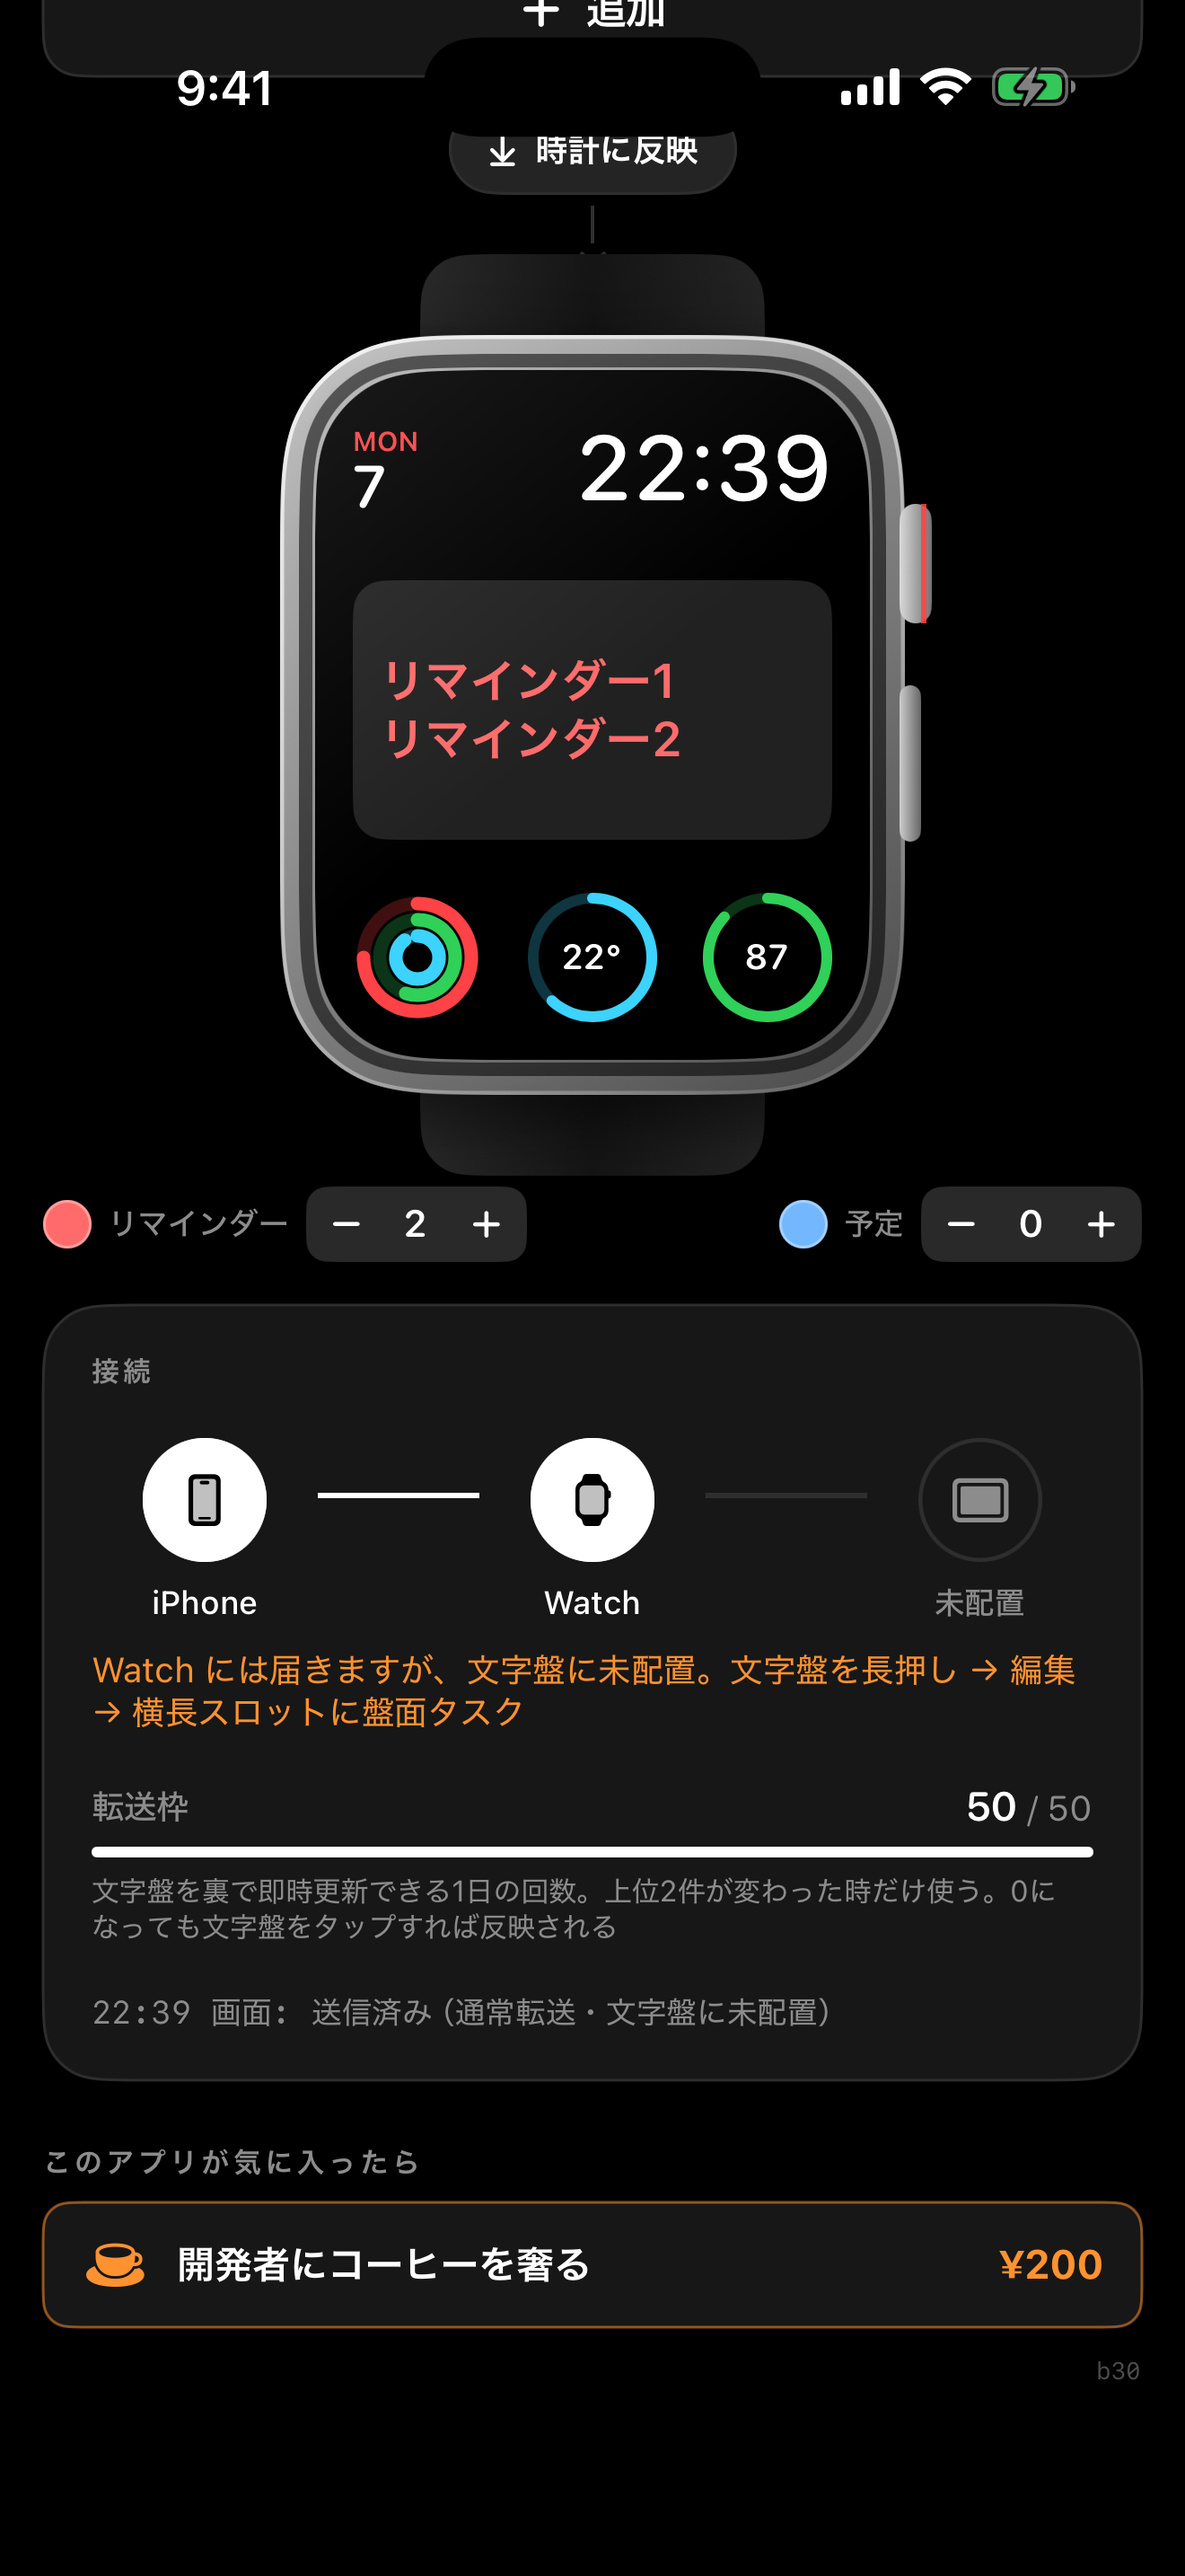
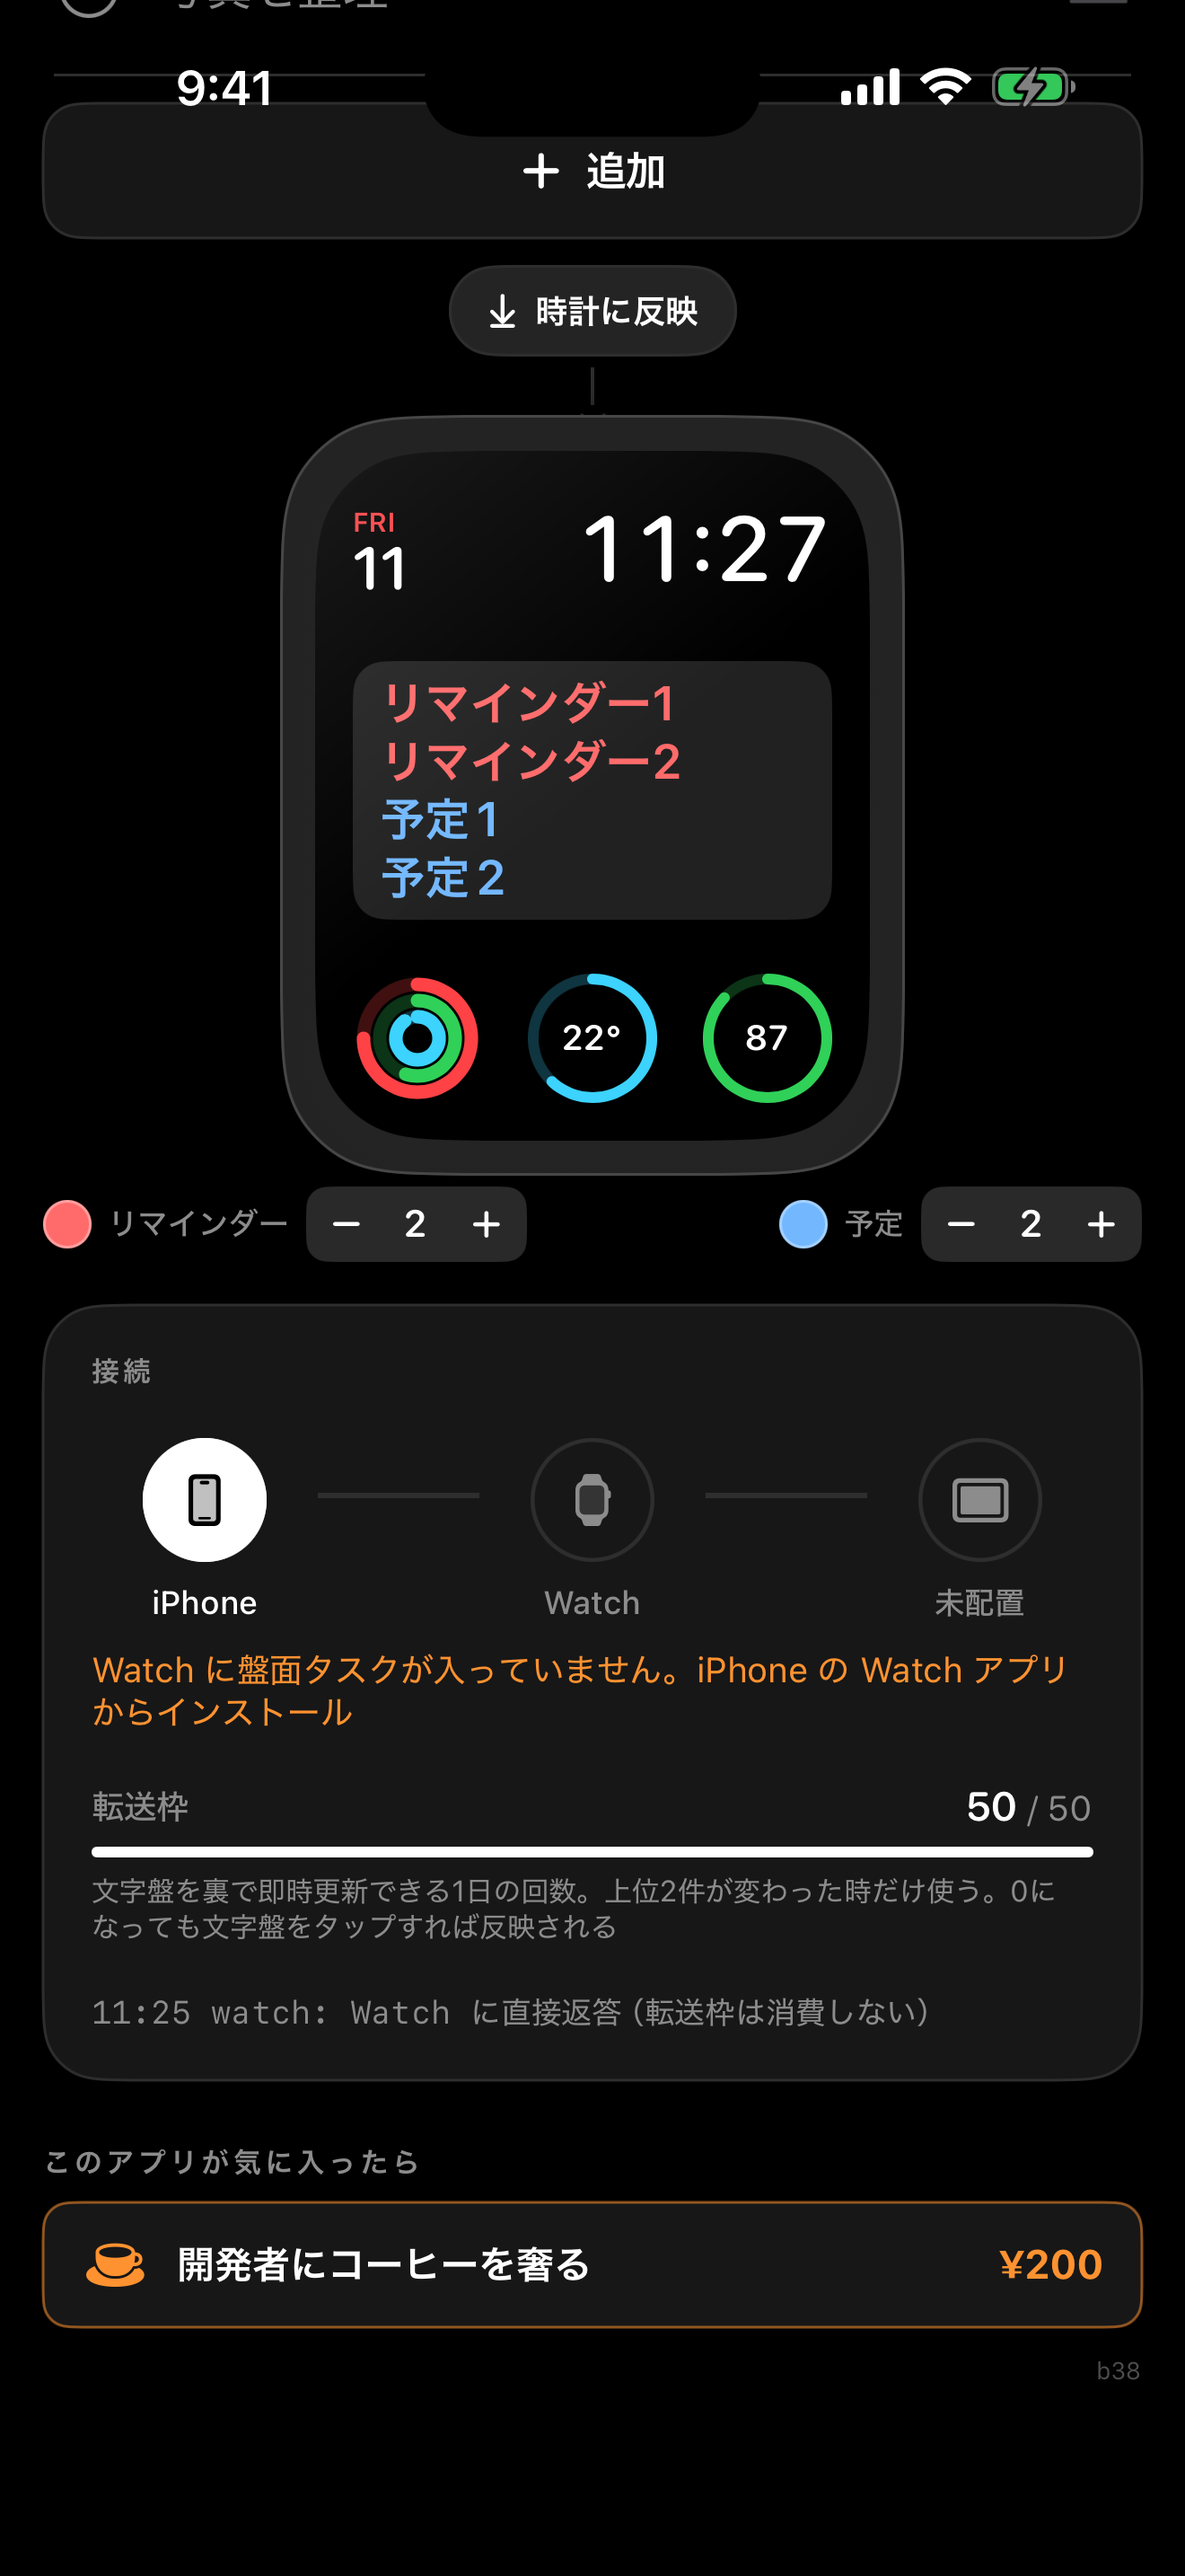
アイコンを作り直し、時計の絵をやめた (b38・1.0 (3))
5.2.5 却下への対応。「アイコンが Apple Watch に似ている」という指摘。

- アプリアイコンを、リストそのものを表す図柄に変更（上2件が赤＝文字盤に出るもの）。
  生成は tools/make-icon.swift。時計・バンド・竜頭・側面ボタンは描かない
- アプリ内の「時計ではこう見えます」も、バンド・竜頭・側面ボタン・金属ケースを外し、
  画面のまわりの黒い縁だけにした。掲載画像にも同じ絵が写っていたため
- スクリーンショットを5枚とも撮り直し

diff --git a/iOS/WatchMockView.swift b/iOS/WatchMockView.swift
@@ -1,9 +1,12 @@
 import SwiftUI
 
 /// 「時計ではこう見えます」のプレビュー。
-/// Apple Watch（ステンレスケース＋黒バンド）の中に、インフォグラフ モジュラー風の文字盤を描く。
 /// 中央の横長スロットが盤面タスク。周りの日付・時刻・下段3つは雰囲気用のダミー。
 /// 横長スロットの描画ルールは実際のウィジェットと同じ（2行同じフォント、長い方に合わせて一緒に縮む）。
+///
+/// **腕時計の実物を描かないこと。** バンド・竜頭・側面ボタン・金属ケースは描かない。
+/// 1.0 (2) はアイコンが Apple Watch に似ているとして 5.2.5 で却下された（引き継ぎ書 4-107）。
+/// ここは「画面のプレビュー」に留め、機種が分かる装飾は付けない。
 struct WatchMockView: View {
     let lines: [FaceLine]
     let layout: FaceLayout
@@ -15,57 +18,24 @@ struct WatchMockView: View {
 
     var body: some View {
         ZStack {
-            band
-            watchCase
-            crownAndButton
+            bezel
             screen
         }
-        .frame(width: caseW + 40, height: caseH + 60)
+        .frame(width: caseW, height: caseH)
     }
 
-    // MARK: - 筐体
+    // MARK: - 枠
 
-    private var band: some View {
-        RoundedRectangle(cornerRadius: 18, style: .continuous)
-            .fill(LinearGradient(colors: [Color(white: 0.16), Color(white: 0.08), Color(white: 0.14)],
-                                 startPoint: .leading, endPoint: .trailing))
-            .frame(width: 128, height: caseH + 60)
-    }
-
-    private var watchCase: some View {
-        RoundedRectangle(cornerRadius: 54, style: .continuous)
-            .fill(LinearGradient(colors: [Color(white: 0.82), Color(white: 0.55), Color(white: 0.30)],
-                                 startPoint: .topLeading, endPoint: .bottomTrailing))
+    /// 画面のまわりの黒い縁だけ。機種の分かる形にはしない
+    private var bezel: some View {
+        RoundedRectangle(cornerRadius: 46, style: .continuous)
+            .fill(Color(white: 0.14))
             .overlay(
-                RoundedRectangle(cornerRadius: 54, style: .continuous)
-                    .strokeBorder(LinearGradient(colors: [.white.opacity(0.9), .white.opacity(0.1)],
-                                                 startPoint: .topLeading, endPoint: .bottomTrailing),
-                                  lineWidth: 1.5)
-            )
-            .overlay(
-                // ベゼルとガラスの境目
                 RoundedRectangle(cornerRadius: 46, style: .continuous)
-                    .strokeBorder(Color.black.opacity(0.55), lineWidth: 5)
-                    .padding(7)
+                    .strokeBorder(Color(white: 0.28), lineWidth: 1)
             )
             .frame(width: caseW, height: caseH)
-            .shadow(color: .black.opacity(0.6), radius: 14, y: 8)
-    }
-
-    private var crownAndButton: some View {
-        ZStack {
-            Capsule()
-                .fill(LinearGradient(colors: [Color(white: 0.85), Color(white: 0.45)],
-                                     startPoint: .leading, endPoint: .trailing))
-                .frame(width: 12, height: 44)
-                .overlay(Rectangle().fill(.red.opacity(0.85)).frame(width: 2).offset(x: 3))
-                .offset(x: caseW / 2 + 4, y: -56)
-            Capsule()
-                .fill(LinearGradient(colors: [Color(white: 0.8), Color(white: 0.4)],
-                                     startPoint: .leading, endPoint: .trailing))
-                .frame(width: 8, height: 58)
-                .offset(x: caseW / 2 + 2, y: 18)
-        }
+            .shadow(color: .black.opacity(0.6), radius: 12, y: 6)
     }
 
     // MARK: - 画面

diff --git a/Tools/make-icon.swift b/Tools/make-icon.swift
@@ -1,0 +1,60 @@
+// アプリアイコンを描く。1024x1024 の PNG を作る。
+//   swift tools/make-icon.swift <出力先.png>
+//
+// **Apple の製品に似た絵を描かないこと。**
+// 1.0 (2) は「アイコンが Apple Watch に似ている」で 5.2.5 却下された（引き継ぎ書 4-107）。
+// 時計・バンド・竜頭・側面ボタンは描かない。リストそのものを記号にする。
+//
+// watchOS 側は円に切り抜かれるので、中身は中心から半径 410 の円に収める。
+import AppKit
+import ImageIO
+import UniformTypeIdentifiers
+
+let side = 1024
+let out = CommandLine.arguments.count > 1 ? CommandLine.arguments[1] : "icon.png"
+
+let space = CGColorSpaceCreateDeviceRGB()
+guard let ctx = CGContext(data: nil, width: side, height: side, bitsPerComponent: 8,
+                          bytesPerRow: 0, space: space,
+                          bitmapInfo: CGImageAlphaInfo.premultipliedLast.rawValue) else { exit(1) }
+
+/// 上からの y を CoreGraphics の y に直す
+func flip(_ y: CGFloat) -> CGFloat { CGFloat(side) - y }
+
+// 背景（上がわずかに明るい炭色）
+let bg = CGGradient(colorsSpace: space, colors: [
+    CGColor(red: 0.13, green: 0.13, blue: 0.14, alpha: 1),
+    CGColor(red: 0.02, green: 0.02, blue: 0.02, alpha: 1),
+] as CFArray, locations: [0, 1])!
+ctx.drawLinearGradient(bg, start: CGPoint(x: 0, y: CGFloat(side)), end: CGPoint(x: 0, y: 0), options: [])
+
+let red = CGColor(red: 1.0, green: 0.27, blue: 0.23, alpha: 1)
+let grey = CGColor(red: 0.56, green: 0.56, blue: 0.58, alpha: 1)
+
+/// ○ と棒を1行ぶん描く
+func row(y: CGFloat, barWidth: CGFloat, color: CGColor) {
+    let ringCenter = CGPoint(x: 262, y: flip(y))
+    let ringRadius: CGFloat = 38
+    ctx.setStrokeColor(color)
+    ctx.setLineWidth(13)
+    ctx.strokeEllipse(in: CGRect(x: ringCenter.x - ringRadius, y: ringCenter.y - ringRadius,
+                                 width: ringRadius * 2, height: ringRadius * 2))
+
+    let barHeight: CGFloat = 66
+    let bar = CGRect(x: 360, y: flip(y) - barHeight / 2, width: barWidth, height: barHeight)
+    ctx.setFillColor(color)
+    ctx.addPath(CGPath(roundedRect: bar, cornerWidth: barHeight / 2, cornerHeight: barHeight / 2, transform: nil))
+    ctx.fillPath()
+}
+
+// 上2件が文字盤に出るもの（赤）、3件目はまだ出ないもの（灰）
+row(y: 330, barWidth: 430, color: red)
+row(y: 512, barWidth: 366, color: red)
+row(y: 694, barWidth: 300, color: grey)
+
+guard let image = ctx.makeImage(),
+      let dest = CGImageDestinationCreateWithURL(URL(fileURLWithPath: out) as CFURL,
+                                                 UTType.png.identifier as CFString, 1, nil) else { exit(1) }
+CGImageDestinationAddImage(dest, image, nil)
+CGImageDestinationFinalize(dest)
+print("wrote \(out)")

diff --git a/Shared/TaskStore.swift b/Shared/TaskStore.swift
@@ -3,7 +3,7 @@ import Foundation
 /// どのビルドが実機に入っているかを見分けるための印。コードを push するたびに増やす。
 /// iPhone / Watch の画面右上に極小で出る。文字盤には出さない。
 enum BuildInfo {
-    static let marker = "b37"
+    static let marker = "b38"
 }
 
 enum AppGroup {
